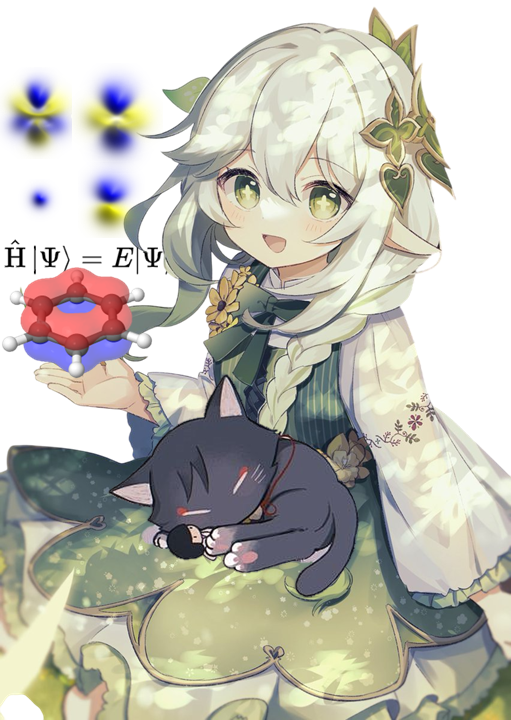
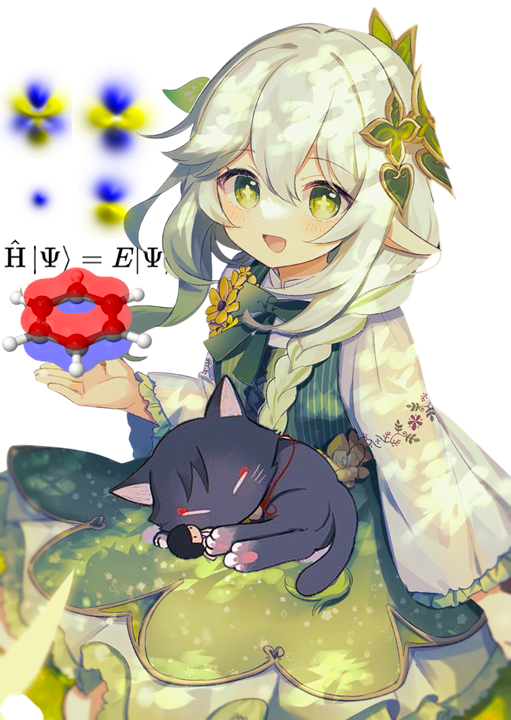
new wallpaper

diff --git a/src/config.ts b/src/config.ts
@@ -17,7 +17,7 @@ export const siteConfig: SiteConfig = {
 	},
 	banner: {
 		enable: true,
-		src: "assets/images/rukkhadevata.png", // Relative to the /src directory. Relative to the /public directory if it starts with '/'
+		src: "assets/images/nahida-wp.png", // Relative to the /src directory. Relative to the /public directory if it starts with '/'
 		position: "center", // Equivalent to object-position, only supports 'top', 'center', 'bottom'. 'center' by default
 		credit: {
 			enable: false, // Display the credit text of the banner image
